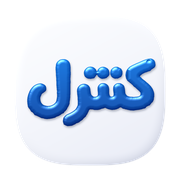
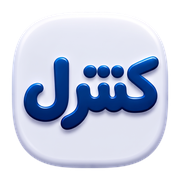
1.8.1.1

Changed region(s): [[0.0556, 0.25, 0.9444, 0.9444]]

diff --git a/web/sw.js b/web/sw.js
@@ -1,5 +1,5 @@
 /* MControl MDesign PWA Service Worker v2 */
-const CACHE_NAME = 'mcontrol-pwa-v24';
+const CACHE_NAME = 'mcontrol-pwa-v26';
 const PRECACHE_URLS = [
   './',
   './manifest.json',
@@ -8,18 +8,6 @@ const PRECACHE_URLS = [
   './icon-512.png',
   './icon-maskable-512.png',
   './apple-touch-icon.png',
-  './logo-base.png',
-  './logo-text.png',
-  './logo-dots.png',
-  './logo-base-dark.png',
-  './logo-text-mask.png',
-  './logo-text-gloss.png',
-  './logo-dots-mask.png',
-  './logo-dots-gloss.png',
-  './logo-word-sil.png',
-  './logo-word-gloss.png',
-  './logo-dots-sil-c.png',
-  './logo-dots-gloss-c.png',
   './logo-word-blue.png',
   './logo-dots-blue.png',
   './logo-word-white.png',

diff --git a/web/index.html b/web/index.html
@@ -5413,9 +5413,9 @@ body.light-mode .mc-brand-dyn .k-img-dark { display: none; }
   will-change: clip-path, opacity;
   animation: kWriteRTL 3s cubic-bezier(.32, .08, .22, 1) infinite;
 }
-.mc-kontrol-anim .k-d1-clip { clip-path: inset(0 24.4% 0 65.2%); }
-.mc-kontrol-anim .k-d2-clip { clip-path: inset(0 34.8% 0 54.7%); }
-.mc-kontrol-anim .k-d3-clip { clip-path: inset(0 45.3% 0 44.3%); }
+.mc-kontrol-anim .k-d1-clip { clip-path: inset(0 23.48% 0 63.91%); }
+.mc-kontrol-anim .k-d2-clip { clip-path: inset(0 36.09% 0 54.48%); }
+.mc-kontrol-anim .k-d3-clip { clip-path: inset(0 45.52% 0 41.64%); }
 .mc-kontrol-anim .k-dot {
   opacity: 0;
   will-change: transform, opacity;

diff --git a/app/src/main/java/com/mdesign/mcontrol/ui/screens/LoginScreen.kt b/app/src/main/java/com/mdesign/mcontrol/ui/screens/LoginScreen.kt
@@ -152,9 +152,9 @@ private fun KontrolAnimatedLogo(modifier: Modifier = Modifier) {
         val d2 = dotAlpha(1.62f)
         val d3 = dotAlpha(1.80f)
         listOf(
-            Triple(0.652f, 0.756f, d1),
-            Triple(0.547f, 0.652f, d2),
-            Triple(0.443f, 0.547f, d3)
+            Triple(0.6391f, 0.7652f, d1),
+            Triple(0.5448f, 0.6391f, d2),
+            Triple(0.4164f, 0.5448f, d3)
         ).forEach { (lx, rx, a) ->
             if (a > 0.01f) {
                 Image(
